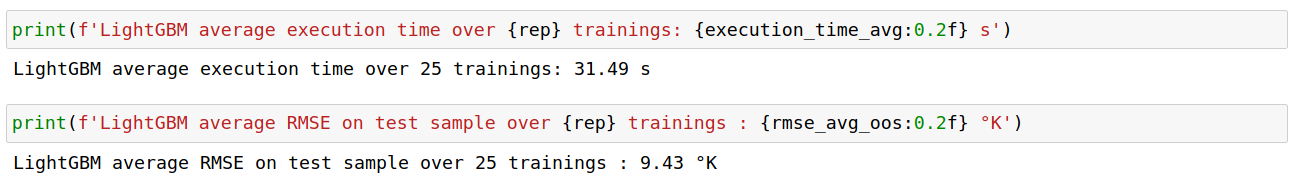
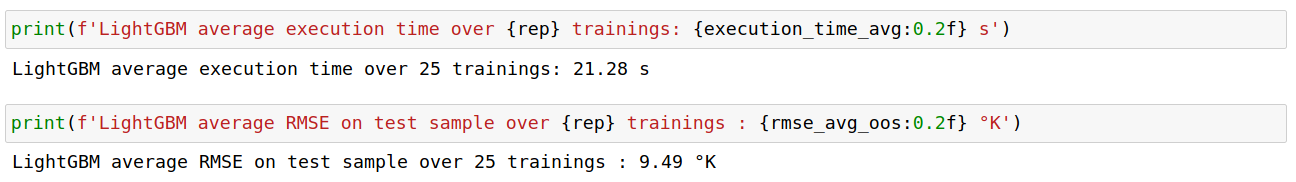
Edit lgbm conclusion

diff --git a/content/post/lightgbm.md b/content/post/lightgbm.md
@@ -237,7 +237,7 @@ To give some perspective about this result, let us note that the standard deviat
 
 ### Conclusion
 
-In the end, our LightGBM model has achieved similar performance to XGBoost, at least regarding accuracy. Nevertheless, the average training speed is about twice as long. This does not mean that we could not reach better performance if we went deeper into hyperparameter tuning and grid searching. However, we can note that regarding this specific superconductivity problem/dataset, LightGBM did not trivially provided a better model than XGBoost. The source code of this experiment is available on [Github](https://github.com/datatrigger/light_gradient_boosted_machine).
+In the end, our LightGBM model has achieved similar performance to XGBoost regarding both speed and accuracy. This does not mean that we could not reach better performance if we went deeper into hyperparameter tuning and grid searching. However, we can note that regarding this specific superconductivity problem/dataset, LightGBM did not trivially provided a better model than XGBoost. The source code of this experiment is entirely available on [Github](https://github.com/datatrigger/light_gradient_boosted_machine).
 
 ### References
 
